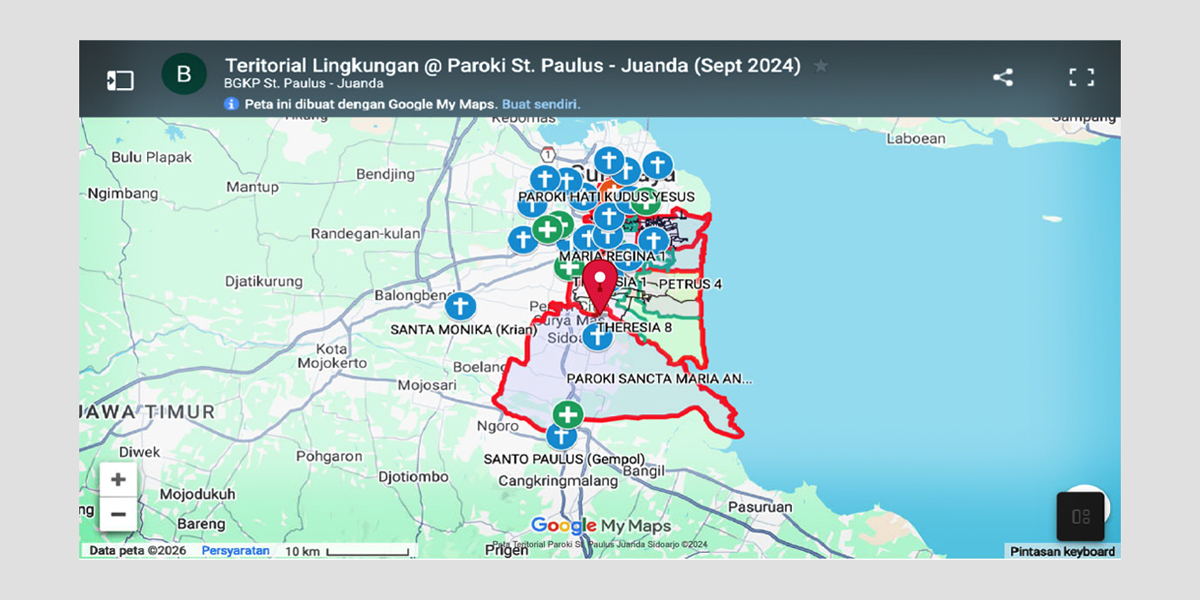
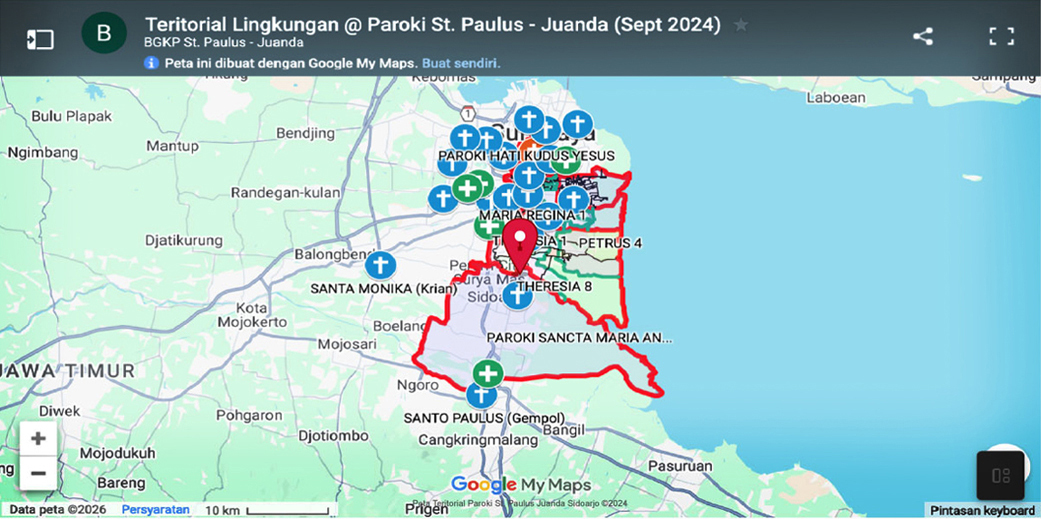
fix: add migration 009 for manage_liturgy_types to admin_sekretariat, fix NuxtLink prefetch, update map thumbnails

diff --git a/layouts/admin.vue b/layouts/admin.vue
@@ -204,7 +204,7 @@
                   </svg>
                   Kelola Jadwal Misa
                 </NuxtLink>
-                <NuxtLink v-if="menuVisibility.liturgyTypes" to="/admin/liturgy-types"
+                <NuxtLink v-if="menuVisibility.liturgyTypes" :prefetch="false" to="/admin/liturgy-types"
                   class="flex items-center px-4 py-2 text-sm font-medium rounded-md transition-colors duration-200"
                   :class="$route.path === '/admin/liturgy-types' ? 'bg-[#882f1d] text-white' : 'text-gray-600 hover:bg-gray-100 hover:text-gray-900'">
                   <svg class="w-4 h-4 mr-3" fill="none" stroke="currentColor" viewBox="0 0 24 24">

diff --git a/server/api/admin/run-migration.post.ts b/server/api/admin/run-migration.post.ts
@@ -15,6 +15,9 @@ const MIGRATIONS: Record<string, string[]> = {
   ],
   '008_add_manage_users_permission_to_sekretariat': [
     `INSERT IGNORE INTO role_permissions (role_id, permission_id) SELECT r.id, p.id FROM roles r JOIN permissions p ON p.name = 'manage_users_komsos_sekretariat' WHERE r.name = 'admin_sekretariat'`
+  ],
+  '009_add_liturgy_types_permission_to_sekretariat': [
+    `INSERT IGNORE INTO role_permissions (role_id, permission_id) SELECT r.id, p.id FROM roles r JOIN permissions p ON p.name = 'manage_liturgy_types' WHERE r.name = 'admin_sekretariat'`
   ]
 }
 

diff --git a/pages/admin/migrations.vue b/pages/admin/migrations.vue
@@ -68,6 +68,14 @@ const migrations = ref<Migration[]>([
     running: false,
     done: false,
     result: null
+  },
+  {
+    key: '009_add_liturgy_types_permission_to_sekretariat',
+    label: '009 - Tambah permission manage_liturgy_types ke Admin Sekretariat',
+    description: 'Memberikan permission manage_liturgy_types ke role admin_sekretariat agar bisa mengakses dan mengelola jenis liturgi (diperlukan untuk halaman jadwal misa).',
+    running: false,
+    done: false,
+    result: null
   }
 ])
 
